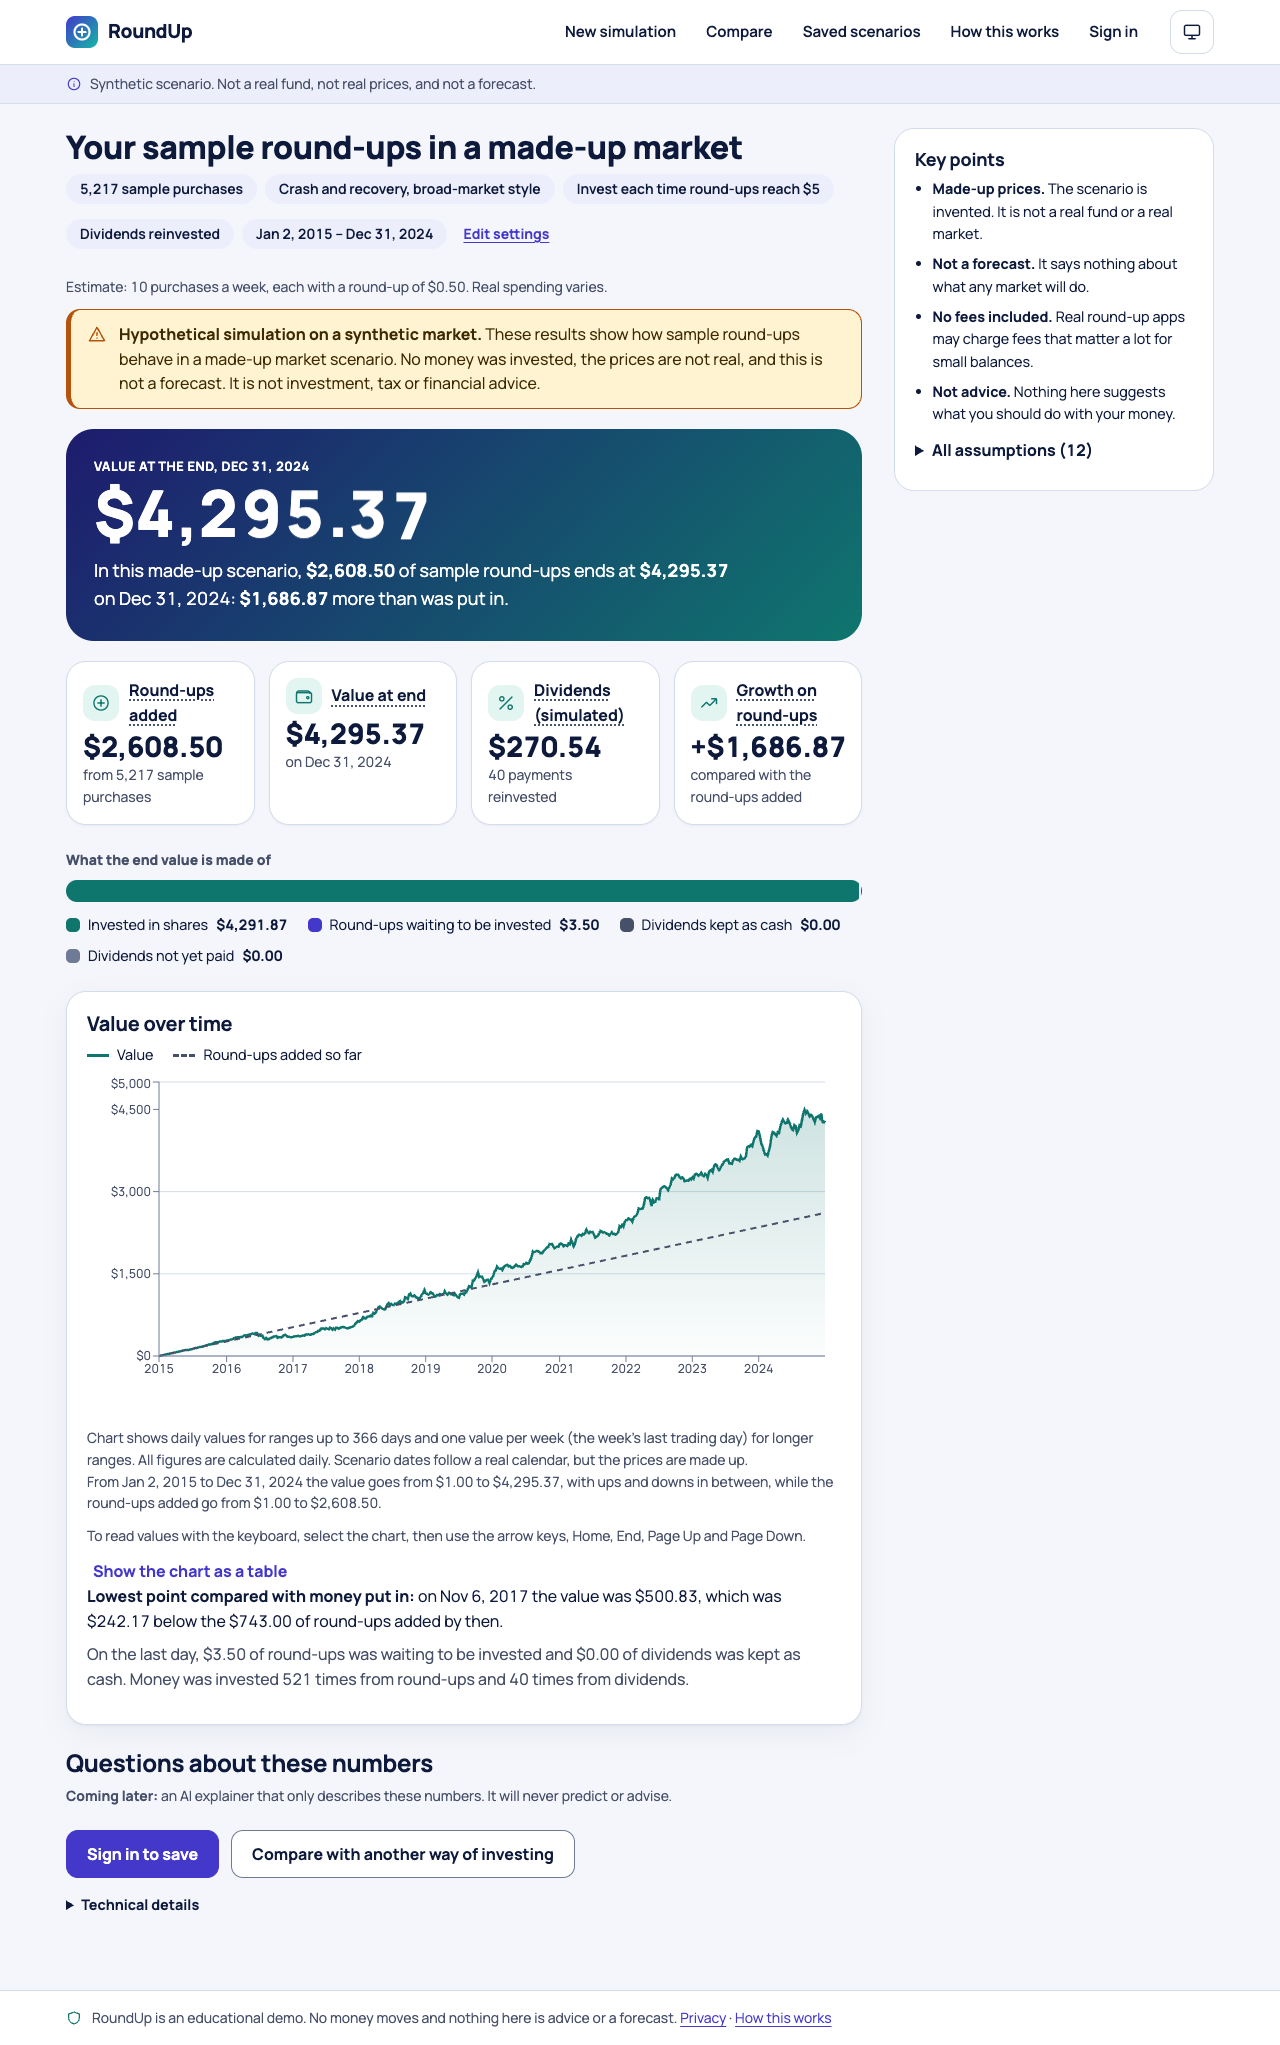
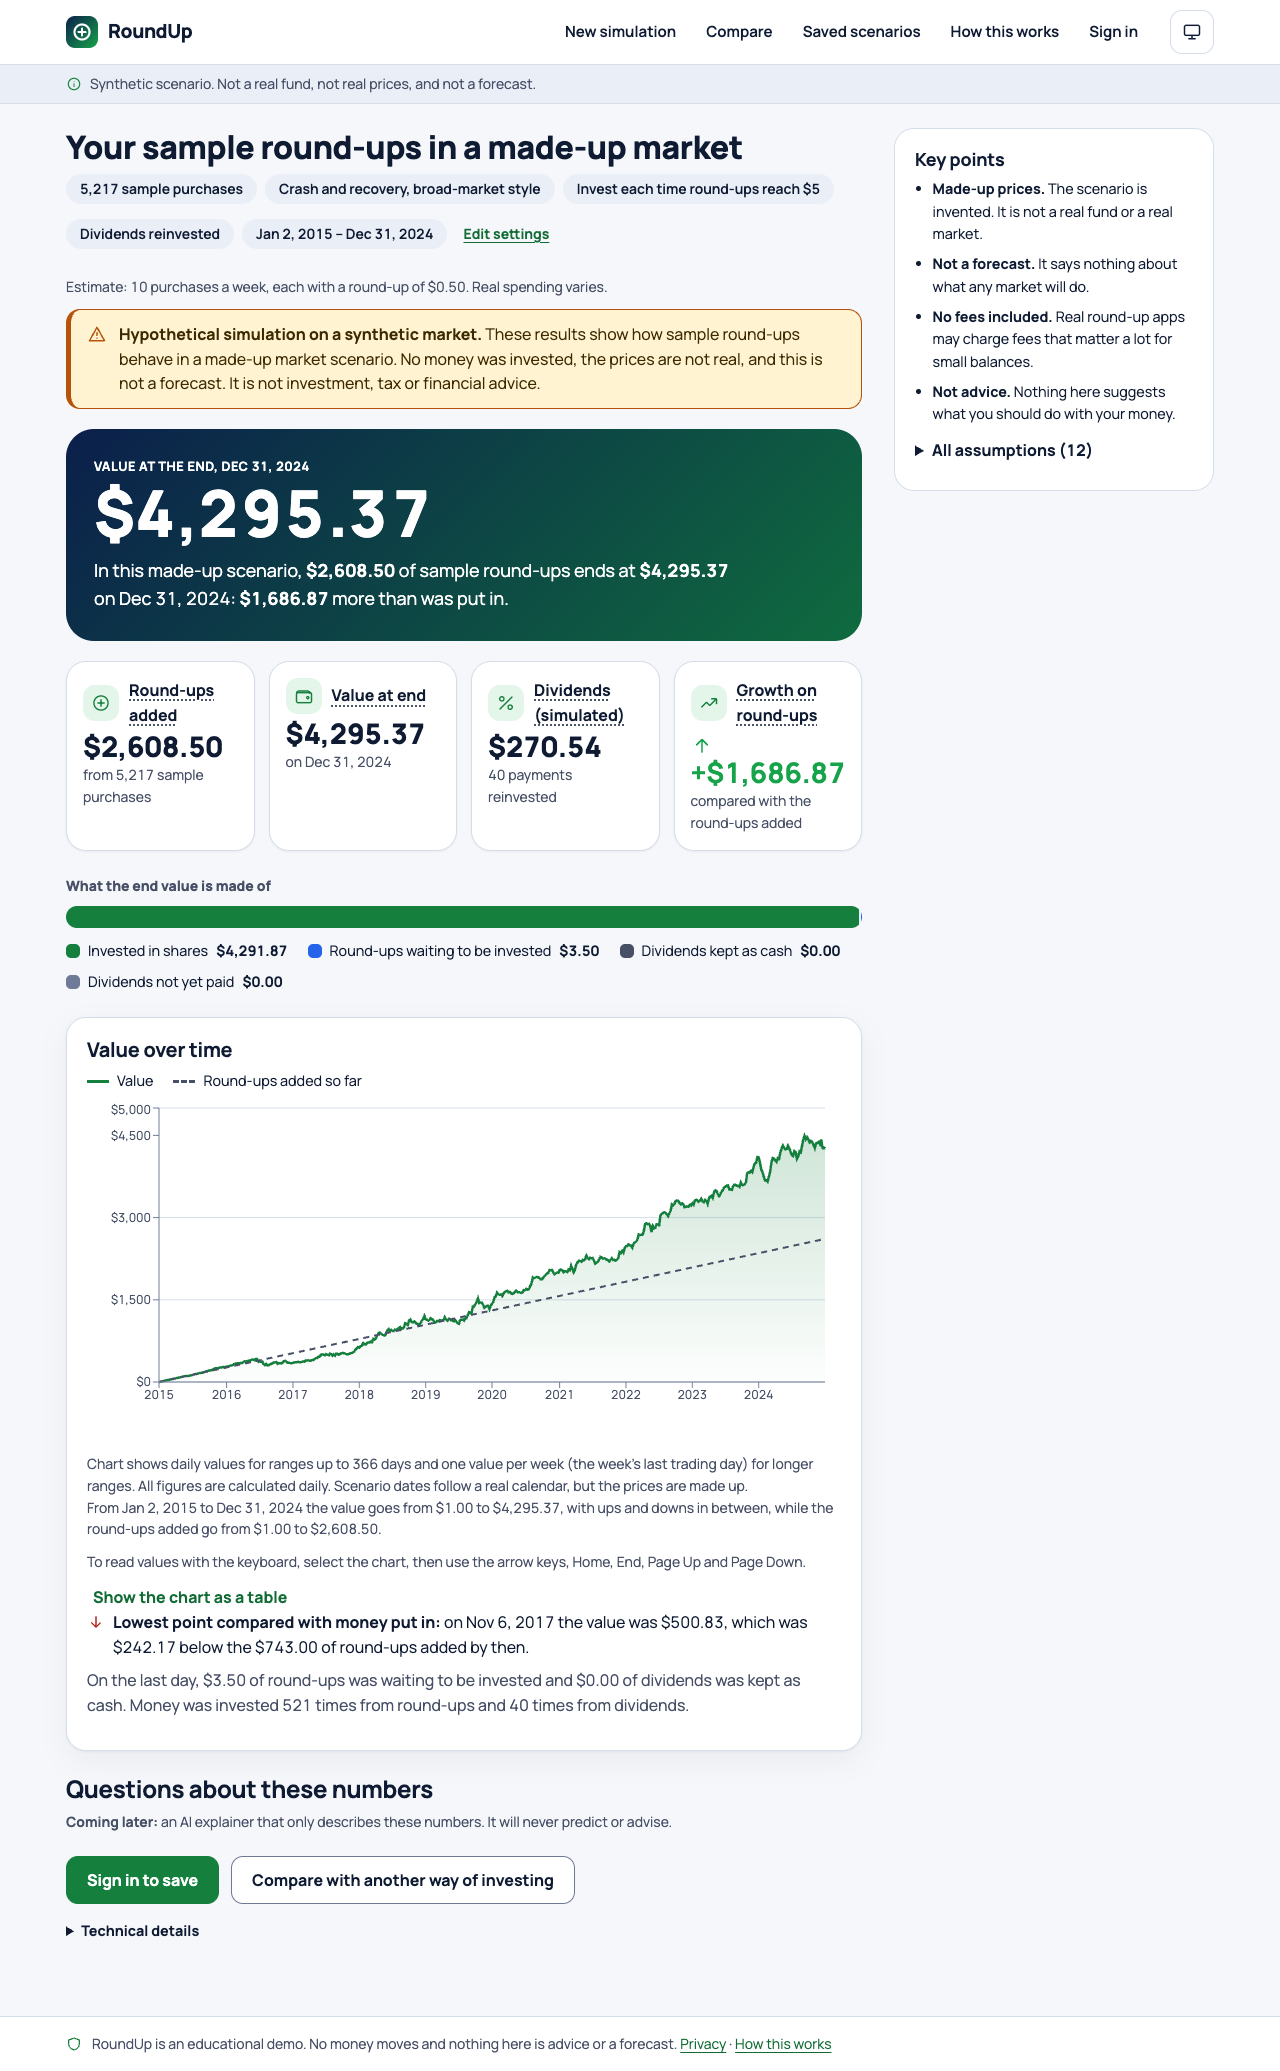
Deployed checks for colour and motion; DEPLOY.md numbers for the web preview

diff --git a/web/e2e-deployed/motion-colour.spec.ts b/web/e2e-deployed/motion-colour.spec.ts
@@ -1,0 +1,80 @@
+import fs from "node:fs";
+import path from "node:path";
+import { expect, test, type Page } from "@playwright/test";
+
+// On the deployed preview: the colour scheme (tokens as served, gain/loss with sign and arrow, neutral differences) and the motion
+// (smooth in-page scroll with focus, entrance, reduced motion). No sign-in is attempted.
+const tokens = JSON.parse(fs.readFileSync(path.resolve(__dirname, "../app/tokens.json"), "utf8")) as { themes: Record<string, Record<string, string>> };
+const kebab = (s: string) => s.replace(/[A-Z]/g, (c) => "-" + c.toLowerCase());
+
+async function runLoss(page: Page) {
+  await page.goto("/");
+  await page.getByRole("radio", { name: /Crash and recovery/ }).check();
+  await page.getByLabel("Start date").fill("2015-01-02"); await page.getByLabel("End date").fill("2016-11-30");
+  await page.getByRole("button", { name: "Run simulation" }).click();
+  await page.waitForURL("**/results"); await page.getByText("In this made-up scenario").waitFor();
+}
+
+for (const scheme of ["light", "dark"] as const) {
+  test.describe(`colour (${scheme})`, () => {
+    test.use({ colorScheme: scheme });
+    test("the served stylesheet carries the green/red tokens", async ({ page }) => {
+      await page.goto("/");
+      const got = await page.evaluate((keys) => Object.fromEntries(keys.map((k) => [k, getComputedStyle(document.documentElement).getPropertyValue(`--${k}`).trim()])),
+        ["primary", "gain", "gain-text", "loss", "series-b", "bg"]);
+      const t = tokens.themes[scheme];
+      const lower = (o: Record<string, string>) => Object.fromEntries(Object.entries(o).map(([k, v]) => [k, v.toLowerCase()]));     // the minifier lower-cases hex values
+      expect(lower(got)).toEqual(lower({ primary: t.primary, gain: t.gain, "gain-text": t.gainText, loss: t.loss, "series-b": t.seriesB, bg: t.bg }));
+    });
+    test("a made-up loss: minus sign, down arrow, loss colour; a gain: plus sign, up arrow; strategy differences stay neutral", async ({ page }) => {
+      await runLoss(page);
+      const growth = page.locator(".stat").filter({ hasText: "Growth on round-ups" });
+      await expect(growth.locator(".delta.neg")).toHaveText("−$114.44");
+      await expect(growth.locator(".delta.neg svg.icon-down")).toBeVisible();
+      await expect(page.locator(".dip.neg svg.icon-down")).toBeVisible();
+      const hex = (c: string) => "#" + c.match(/\d+/g)!.slice(0, 3).map((n) => Number(n).toString(16).padStart(2, "0")).join("").toUpperCase();
+      expect(hex(await growth.locator(".delta.neg").evaluate((e) => getComputedStyle(e).color))).toBe(tokens.themes[scheme].loss);
+      await page.getByRole("link", { name: "Compare with another way of investing" }).click();
+      await page.getByRole("button", { name: "Compare" }).click();
+      await page.getByRole("rowheader", { name: "Growth on round-ups" }).waitFor();
+      await expect(page.getByTestId("diff-summary").locator("svg.icon-up, svg.icon-down")).toHaveCount(0);        // a difference is not a gain or a loss
+      await expect(page.locator("td[data-label='B minus A'] .delta.flat").first()).toBeVisible();
+      await expect(page.locator("td[data-label='B minus A'] .delta.pos, td[data-label='B minus A'] .delta.neg")).toHaveCount(0);
+    });
+  });
+}
+
+test.describe("motion on", () => {
+  test.use({ reducedMotion: "no-preference" });
+  test("a step link scrolls smoothly, highlights the step, focuses its heading; cards below the fold wait and then come in", async ({ page }) => {
+    await page.goto("/");
+    await page.locator("li[data-state='current']").waitFor();
+    await expect(page.locator("#step-4")).toHaveAttribute("data-reveal", "pending");
+    const samples = page.evaluate(() => new Promise<number[]>((resolve) => {
+      const out: number[] = []; const t0 = performance.now();
+      const tick = () => { out.push(Math.round(window.scrollY)); performance.now() - t0 < 1800 ? requestAnimationFrame(tick) : resolve(out); };
+      tick();
+    }));
+    await page.getByRole("link", { name: /Dates/ }).click();
+    await expect(page.locator(".rail li[data-state='current']")).toContainText("Dates", { timeout: 500 });
+    const ys = await samples; const final = ys[ys.length - 1];
+    expect(ys.filter((y) => y > 0 && y < final).length).toBeGreaterThanOrEqual(3);
+    await expect(page).toHaveURL(/#step-4$/);
+    expect(await page.evaluate(() => document.activeElement?.className)).toBe("step-title");
+    await expect(page.locator("#step-4")).toHaveAttribute("data-reveal", "in");
+    await page.evaluate(async () => { await Promise.all(document.getAnimations().map((a) => a.finished.catch(() => undefined))); });
+    expect(await page.locator("#step-4").evaluate((e) => getComputedStyle(e).opacity)).toBe("1");
+  });
+});
+
+test.describe("reduced motion", () => {
+  test.use({ reducedMotion: "reduce" });
+  test("nothing is marked for animation, links jump instantly, focus still moves", async ({ page }) => {
+    await page.goto("/");
+    expect(await page.locator("[data-reveal], [data-draw]").count()).toBe(0);
+    expect(await page.evaluate(() => document.documentElement.getAttribute("data-motion"))).toBeNull();
+    await page.getByRole("link", { name: /Dates/ }).click();
+    expect(await page.evaluate(() => document.activeElement?.className)).toBe("step-title");
+    expect(await page.evaluate(() => document.getAnimations().length)).toBe(0);
+  });
+});

diff --git a/DEPLOY.md b/DEPLOY.md
@@ -109,19 +109,19 @@ Checked from outside: ✅ sign-ups are disabled (`disable_signup: true`), email 
 
 ## 7. Real numbers on Vercel (preview, measured from this laptop, so timings include the network round trip)
 
-Measured 2026-10-16 on the redesign (scenario-model-2); the deployments are previews (`vercel inspect`: target `preview`): API `roundup-4tqwi6jvb-…`, web `roundup-4zgxw3q4k-…`, aliased to the two `-pr` addresses with the commands in §1 and §2 (both run from the repository root).
+Measured 2026-10-16 after the green/red colour scheme and the motion changes. The web preview is `roundup-pun9mpb4n-…` (`vercel inspect`: target `preview`), aliased to `roundup-demo-web-pr.vercel.app` with `link --project roundup-web`, `deploy --yes --target=preview` and `alias set`, run from the repository root. The API preview is unchanged from the earlier deployment (`roundup-4tqwi6jvb-…`, scenario-model-2).
 
-| Measure | Local (same build, earlier run) | Vercel preview |
+| Measure | Local (same build) | Vercel preview |
 |---|---|---|
-| Setup page, first load | 635 KB, 182 KB transferred, 608 ms | 883 KB, 279 KB transferred, 813 ms |
-| Full-range simulation, `buys: none` | 59,915 bytes, 189 ms | 59,915 bytes, 409–505 ms (5 runs) |
-| Full-range simulation, `buys: all` | 723,182 bytes, 170 ms | 723,182 bytes, 520–593 ms (5 runs) |
-| Full-range comparison | 119,593 bytes, 248 ms | 119,593 bytes, 637–718 ms (5 runs) |
-| Run to the results page | 1,078 KB, 70 KB transferred, 758 ms | 1,326 KB, 123 KB transferred, 1,168 ms |
+| Setup page, first load | 646 KB, about 0.85 s to network idle | 892 KB, 241 KB transferred, 783 ms |
+| Full-range simulation, `buys: none` | 59,915 bytes | 59,915 bytes, 400–457 ms (5 runs) |
+| Full-range simulation, `buys: all` | 723,182 bytes | 723,182 bytes, 500–563 ms (5 runs) |
+| Full-range comparison | 119,593 bytes | 119,593 bytes, 637–689 ms (5 runs) |
+| Run to the results page | 1,091 KB | 1,337 KB, 123 KB transferred, 1,278 ms |
 
-The setup page is bigger on Vercel because the deployed build loads the Supabase browser library on every page, while the local test build does not. Loading it only when someone signs in would remove that; not done.
+Compared with the previous deployed redesign (883 KB, 813 ms setup; 1,326 KB, 1,168 ms to results) the colour and motion changes add about 9–11 KB; the timings are within the laptop's usual variation. The setup page is bigger on Vercel because the deployed build loads the Supabase browser library on every page, while the local test build does not.
 
-Typical spending, checked on the deployed API and in the browser: 10 purchases a week at $0.50 from Mon 2016-01-04 to Sun 2016-12-25 (51 whole weeks) gives 510 purchases and $255.00 of round-ups (510 x $0.50); the ending value of that steady-growth run is $255.37.
+Deployed checks run 2026-10-16 (`web/e2e-deployed`, 31 of 32 run, 1 skipped = your own export, which needs `OWNER_SAMPLE_CSV`): smoke; the build points at the right services; axe in light, dark and mobile on 6 screens; geometry on 6 screens in all three modes; the three sample CSVs (93 of 93 rows each); upload layout at 7 widths in both themes; typical spending (10 a week, 51 whole weeks: 510 purchases, $255.00); served colour tokens in light and dark; a made-up loss with minus sign, down arrow and loss colour; neutral strategy differences; smooth in-page scroll with focus, entrance, and reduced motion.
 
 ## 8. Verified by the owner on 2026-10-13, and still not verified
 
